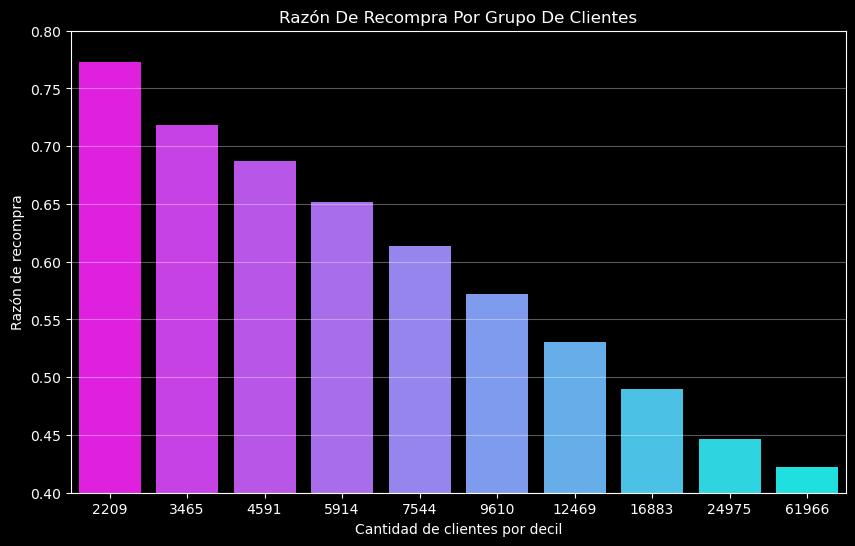
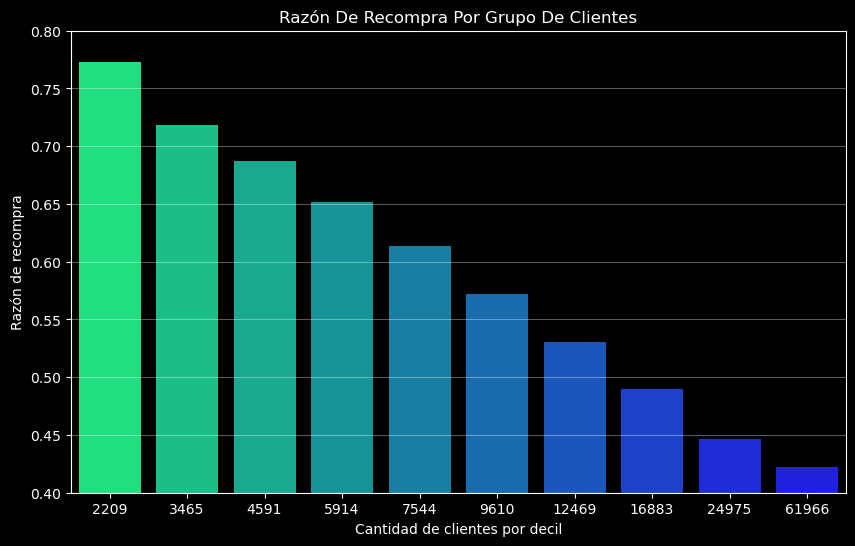
README actualizado: Secciones de desafíos y proceso agregados.

Changed region(s): [[0.0912, 0.0934, 1.0, 0.9029]]

diff --git a/README.md b/README.md
@@ -1,86 +1,108 @@
-# 🛒 Instacart Market Basket Analysis: Intelligence & Customer Loyalty ⚙
+# 🛒 Inteligencia de Consumo y Optimización de Canasta en Instacart
+> **Enfoque del Rol:** Data Scientist / Analytics Engineer
 
-Este proyecto transforma un dataset masivo de transacciones de **Instacart** en inteligencia de negocio. A través de un Análisis Exploratorio de Datos (EDA) profundo, se identifican patrones de recompra, ventanas críticas de demanda y una segmentación estratégica de productos y clientes.
+[![Aplicación Interactiva](https://img.shields.io/badge/Demo-Streamlit-FF4B4B?style=for-the-badge&logo=streamlit)](https://8lyyid3uaf6wn9a3cfxtev.streamlit.app/)
+[![Código en Jupyter](https://img.shields.io/badge/Código-Jupyter_Notebook-F37626?style=for-the-badge&logo=jupyter)](https://github.com/DavidVaAc/instacart-market-basket-analysis/blob/main/notebooks/instacart_eda_analysis.ipynb)
 
 ---
 
-## 📊 Resumen Ejecutivo: Consumer Insights
+### 🎯 1. El Desafío (The Challenge)
+* **¿Qué problema estaba resolviendo?** En el sector de e-grocery, gestionar catálogos masivos con decenas de miles de productos y millones de usuarios genera ineficiencias críticas en la cadena de suministro, desperdicio de presupuesto publicitario en marketing y cuellos de botella en la asignación de repartidores de última milla.
 
-* **⚡ El Motor del Catálogo (Efecto Pareto):** Se identificó una concentración extrema donde solo el **1.7% de los productos** genera el **50% del volumen total** de ventas.
-<p align="center">
-  <img src="images/decil_prods.png" width="600">
-</p>
+* **¿Por qué importa?** Sin una comprensión profunda de las dinámicas de consumo, las empresas de e-grocery no pueden optimizar su inventario ni personalizar sus campañas, lo que resulta en pérdidas económicas significativas y una experiencia de usuario deficiente.
 
-* **🌿 La Ventaja Orgánica:** El segmento orgánico domina el Top 20 de ventas y presenta una tasa de recompra significativamente superior al promedio general.
-<p align="center">
-  <img src="images/Top20_prods_ratio.png" width="600">
-</p>
+* **Objetivo de negocio:** Analizar el historial transaccional de Instacart para identificar patrones de consumo, segmentar clientes y productos por deciles de volumen (Pareto) y extraer insights accionables que permitan optimizar la gestión de inventario, las campañas de marketing y la asignación de recursos logísticos.
 
-* **⏰ Ciclos de Fidelidad Siete-Días:** Existe una "marea" semanal de demanda que alcanza su pico los **domingos y lunes**, con un ciclo de reposición exacto de **7 días**.
+---
+
+### 🛠 2. Acceso al Proyecto
+
+* 📊 **[Aplicación Interactiva (Streamlit)](https://8lyyid3uaf6wn9a3cfxtev.streamlit.app/)** — *Exploración visual interactiva en tiempo real filtrada por horarios, días y departamentos con gráficos en Plotly.*
+
+* 📓 **[Notebook de Modelado (Jupyter)](https://github.com/DavidVaAc/instacart-market-basket-analysis/blob/main/notebooks/instacart_eda_analysis.ipynb)** — *Rigor analítico completo: Tratamiento avanzado de nulos, optimización de memoria RAM y segmentación por deciles.*
+
+---
+
+### 🔬 3. El Proceso End-to-End (The Process)
+
+Seguí un flujo de trabajo analítico estructurado de inicio a fin para decodificar las dinámicas del ecosistema de Instacart:
+
+#### A. Ingesta y Optimización de Infraestructura (Data Engineering)
+Procesar un volumen transaccional masivo de **más de 400,000 órdenes y millones de registros** requería eficiencia a nivel de hardware:
+
+* **Protocolo de Limpieza:** Identifiqué y separé los valores nulos funcionales (usuarios en su primer pedido histórico que no registran días desde la última orden) de potenciales fallos sistémicos.
+
+* **Eliminación de Duplicados:** Detecté un patrón de duplicados concentrados en franjas horarias específicas, lo que indicaba errores de captura masiva. Estos registros se eliminaron para evitar sesgos en el análisis temporal.
+
+* **Downcasting de Tipos de Datos:** Apliqué una reducción estricta de tipos de datos en memoria (ej. de `int64` a `int8`/`int16` y de tipo texto a `category`), disminuyendo el peso en RAM en más de un 60%, garantizando que el pipeline corra de forma fluida en servidores de bajo coste.
+
+#### B. Análisis de Dinámicas Temporales (Mareas de Demanda)
+Evalué las marcas de tiempo secuenciales para encontrar ventanas de oportunidad operativas:
+* Descubrí una concentración bimodal extrema de demanda: los picos de órdenes ocurren estrictamente los **domingos y lunes**, concentrándose entre las **10:00 AM y 4:00 PM**.
+
+#### C. Segmentación Estratégica (Pareto por Deciles)
+Diseñé un marco algorítmico para ordenar y acumular acumulativamente tanto a clientes como a productos, dividiendo la base en deciles idénticos para analizar la elasticidad y concentración del volumen de compraventa.
+
+---
+
+### 📊 4. El Resultado e Impacto de Negocio (The Result)
+
+* **Línea Base (Baseline) vs. Descubrimiento Analítico:** * *Intuición Estándar (Línea Base):* Asumir que el inventario debe distribuirse equitativamente en el catálogo y que los esfuerzos de marketing deben dividirse de manera uniforme entre toda la base de datos.
+
+    * *Hallazgo Crítico:* Tus análisis demostraron que la regla de distribución es radicalmente asimétrica. 
+
+    * **Efecto Pareto Extremo en Productos:** Solo el **1.7% del catálogo (productos orgánicos estrella)** genera el **50% del volumen de ventas total**. Más impresionante aún: el Decil 1 está compuesto por solo **18 productos ($0.04\%$ del catálogo)** que aseguran el primer $10\%$ de ingresos. *Significado comercial:* La cadena de suministro puede proteger el 10% de su facturación global supervisando el stock de solo 18 artículos.
+
+    <p align="center">
+  <img src="images/decil_prods.png" width="500" alt="Curva de Concentración de Ventas por Pareto">
+    </p>
+
+    * **Identificación de Clientes VIP:** El **$1.48\%$ de la base de usuarios** (Decil 1) genera el **$10\%$ del volumen transaccional total**, manteniendo una tasa de recompra extraordinaria del **$77.3\%$** en sus canastas básicas. *Significado comercial:* Perder a un solo cliente de este grupo equivale a perder el volumen de 50 usuarios promedio; este grupo debe blindarse con programas de lealtad prioritarios.
+
+    <p align="center">
+    <img src="images/decil_usrs.png" width="600">
+    </p>
+
+    * **Ciclos de Fidelidad Siete-Días:** El análisis del parámetro `days_since_prior_order` detectó que la inercia del reabastecimiento tiene un ciclo de reloj exacto de **7 días**. *Significado comercial:* Las campañas automatizadas de incentivos o recordatorios inteligentes push de la app no deben enviarse al azar; deben activarse de forma predictiva en el **día 6** para capturar el hábito del usuario.
+
 <p align="center">
   <img src="images/last_order_days.png" width="600">
-</p>
-
-* **💎 Usuarios VIP:** Menos del **2% de los usuarios** mueven el **10% de las transacciones**, manteniendo una lealtad del **77%** en sus canastas básicas.
-<p align="center">
-  <img src="images/decil_usrs.png" width="600">
-</p>
+</p>    
 
 ---
 
-## 🛠 Acceso al Proyecto
+### 🛡 5. Limitaciones del Dataset
 
-Explora el proceso técnico detrás de los datos y la herramienta interactiva final:
+Declarar con honestidad las restricciones del entorno es una práctica indispensable para la toma de decisiones:
+* **Naturaleza Transaccional Estática:** El conjunto de datos es una fotografía transversal de eventos completados. Al carecer de *clickstream* (rutas de clics dentro de la plataforma), el análisis muestra qué compró el usuario, pero no qué productos vio y rechazó (embudo de conversión ausente).
 
-### 📊 [Dashboard Interactivo (Streamlit)](https://8lyyid3uaf6wn9a3cfxtev.streamlit.app/)
-> **Ideal para:** Una exploración rápida y visual. Permite filtrar por día, hora, departamento y ver el comportamiento del catálogo con gráficas de Plotly.
-
-### 📓 [Documentación Técnica (Jupyter Notebook)](https://github.com/DavidVaAc/instacart-market-basket-analysis/blob/main/notebooks/instacart_eda_analysis.ipynb)
-> **Ideal para:** Revisar el rigor científico. Contiene la limpieza de datos, el procesamiento de tipos de variables y la lógica matemática detrás de los deciles de Pareto.
+* **Ausencia de Elasticidad de Precios:** Los registros carecen de variables de precio dinámico o promociones aplicadas en el momento exacto de la orden, limitando la capacidad de evaluar si la concentración en productos orgánicos se debe a su posicionamiento o a incentivos económicos.
 
 ---
 
-## 🔬 Metodología y Hallazgos Críticos
+### 🛠 6. Tecnologías y Reproducibilidad
 
-### 1. ✅ Auditoría y Calidad de Datos
-Se implementó un protocolo de limpieza robusto para manejar anomalías del mundo real:
-* **Tratamiento de Nulos:** Identificación de nulos funcionales (primeros pedidos) vs. errores de captura.
-* **Eliminación de Duplicados:** Detección de errores sistémicos (duplicados concentrados en franjas horarias específicas).
-* **Optimización de Tipos:** Reducción de carga en memoria para el procesamiento eficiente de $>400,000$ órdenes.
+* **Core ML & Analytics:** Python, Pandas, NumPy, SciPy (Análisis Estadístico).
+* **Visualización Dinámica:** Plotly D3 (Paletas optimizadas), Seaborn, Matplotlib.
+* **Entorno & UI:** Jupyter Notebook, VS Code, Streamlit Cloud.
 
-### 2. ⏳ Dinámicas Temporales y de Recompra
-El análisis reveló una bimodalidad en la retención:
-* Los usuarios tienden a comprar en bloques de **7**, sugiriendo hábitos de reabastecimiento semanal.
-* **Insight:** Las campañas de *re-engagement* deberían activarse preventivamente en el **día 6** para capitalizar la inercia del hábito semanal.
-
-
-### 3. 🎯 Segmentación por Deciles (Pareto Analysis) 
-Utilizando un enfoque de deciles de volumen, se descubrió:
-* **Decil 1 (Productos):** 18 productos estrella ($0.04\%$ del catálogo) son los responsables del primer $10\%$ de ingresos.
-* **Decil 1 (Clientes):** Solo 2,209 usuarios ($1.48\%$ de la base) generan el $10\%$ del volumen, con una tasa de recompra del **$77.3\%$**.
-
----
-
-## 🛠 Tecnologías y Herramientas
-* **Lenguaje:** Python 3.x
-* **Análisis de Datos:** Pandas, NumPy
-* **Visualización:** Seaborn y Plotly (Paletas Viridis/Cool/Winter), Matplotlib
-* **Entorno:** Jupyter Notebook / VS Code / Streamlit
+#### Instrucciones para reproducir el entorno local:
+1. Clona este repositorio: `git clone https://github.com/DavidVaAc/instacart-market-basket-analysis.git`
+2. Instala las dependencias necesarias: `pip install -r requirements.txt`
+3. Lanza el dashboard local en tu navegador: `streamlit run src/app.py`
 
 ---
 
 ## 📁 Estructura del Repositorio
-* `src/`: Código fuente para el dashboard.
-* `data/`: Datasets utilizados en el análisis.
-* `notebooks/`: Contiene el análisis detallado paso a paso (`instacart_eda_analysis.ipynb`).
-* `images/`: Capturas de pantalla de las visualizaciones clave.
-* `README.md`: Documentación del proyecto.
-* `requirements.txt`: Dependencias del proyecto.
-
----
-
-## 📫 Contacto
-* 💼 [Portafolio](https://davidvaac.github.io/DavidVaAc/#)
-* 🌐 [Linkedin](https://linkedin.com/in/david-fernando-valle-acosta)
-* 📋 [Curriculum](https://drive.google.com/file/d/1epmNOV5wLOiH2na0B_kiDaaevGUPrUdF/view?usp=sharing)
-* ✉ [Email](mailto:davidfervalle@gmail.com)
+```
+.
+├── src/
+│   └── app.py                 # Código de la aplicación interactiva en Streamlit
+├── notebooks/
+│   └── instacart_eda_analysis.ipynb # Análisis estadístico y cálculo de deciles
+├── datasets/
+│   └── df_orders_sample.parquet # Datos optimizados mediante downcasting columnar
+├── images/                    # Visualizaciones clave exportadas del EDA
+├── requirements.txt           # Dependencias aisladas del entorno virtual
+└── README.md
+```
